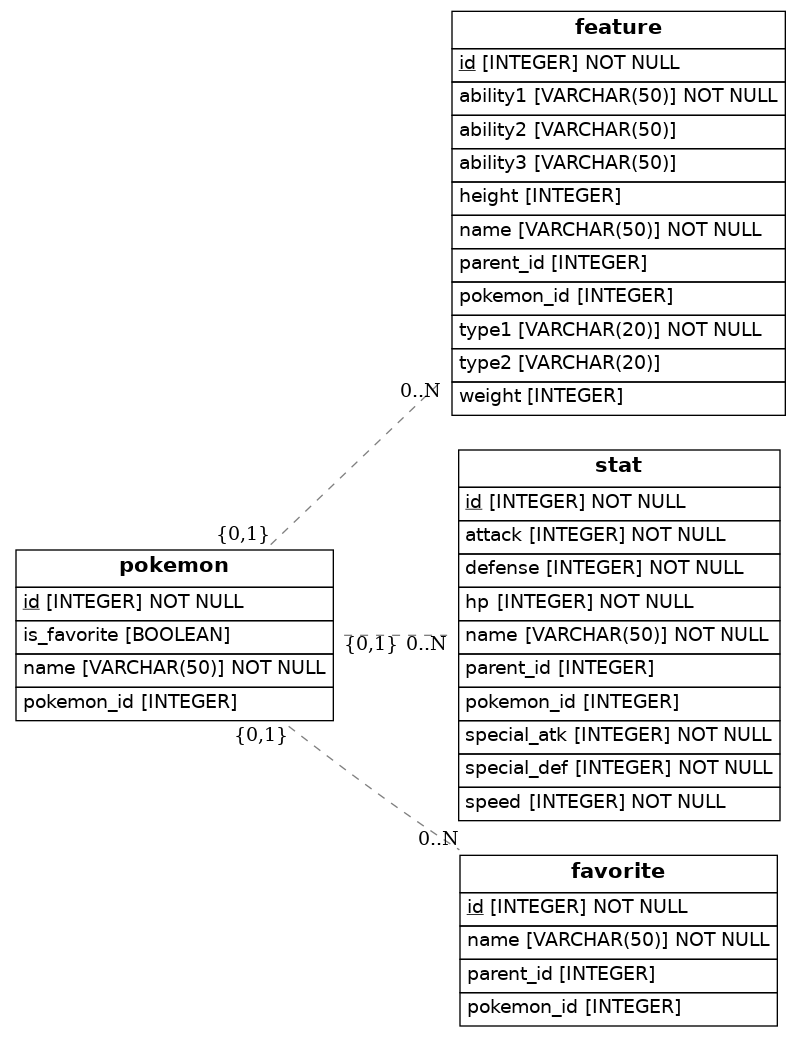
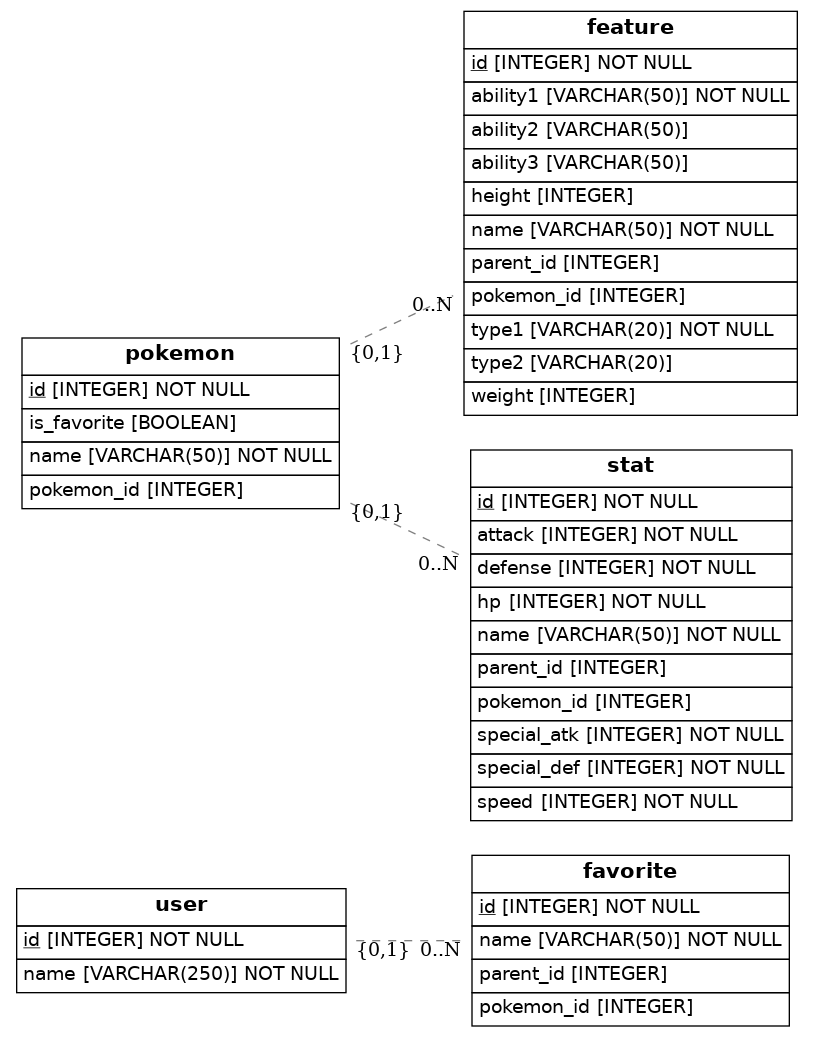
user added

diff --git a/src/models.py b/src/models.py
@@ -8,12 +8,13 @@ from eralchemy2 import render_er
 
 Base = declarative_base()
 
-#class Person(Base):
-    #__tablename__ = 'person'
+class User(Base):
+    __tablename__ = 'user'
     # Here we define columns for the table person
     # Notice that each column is also a normal Python instance attribute.
-    #id = Column(Integer, primary_key=True)
-    #name = Column(String(250), nullable=False)
+    id = Column(Integer, primary_key=True)
+    name = Column(String(250), nullable=False)
+    favorite = relationship("Favorite")
 
 #class Address(Base):
     #__tablename__ = 'address'
@@ -69,6 +70,7 @@ class Favorite(Base):
     pokemon_id = Column(Integer)
     name = Column(String(50), nullable=False) 
     parent_id = Column(Integer, ForeignKey("pokemon.pokemon_id"))
+    parent_id = Column(Integer, ForeignKey("user.id"))
 
 
 
